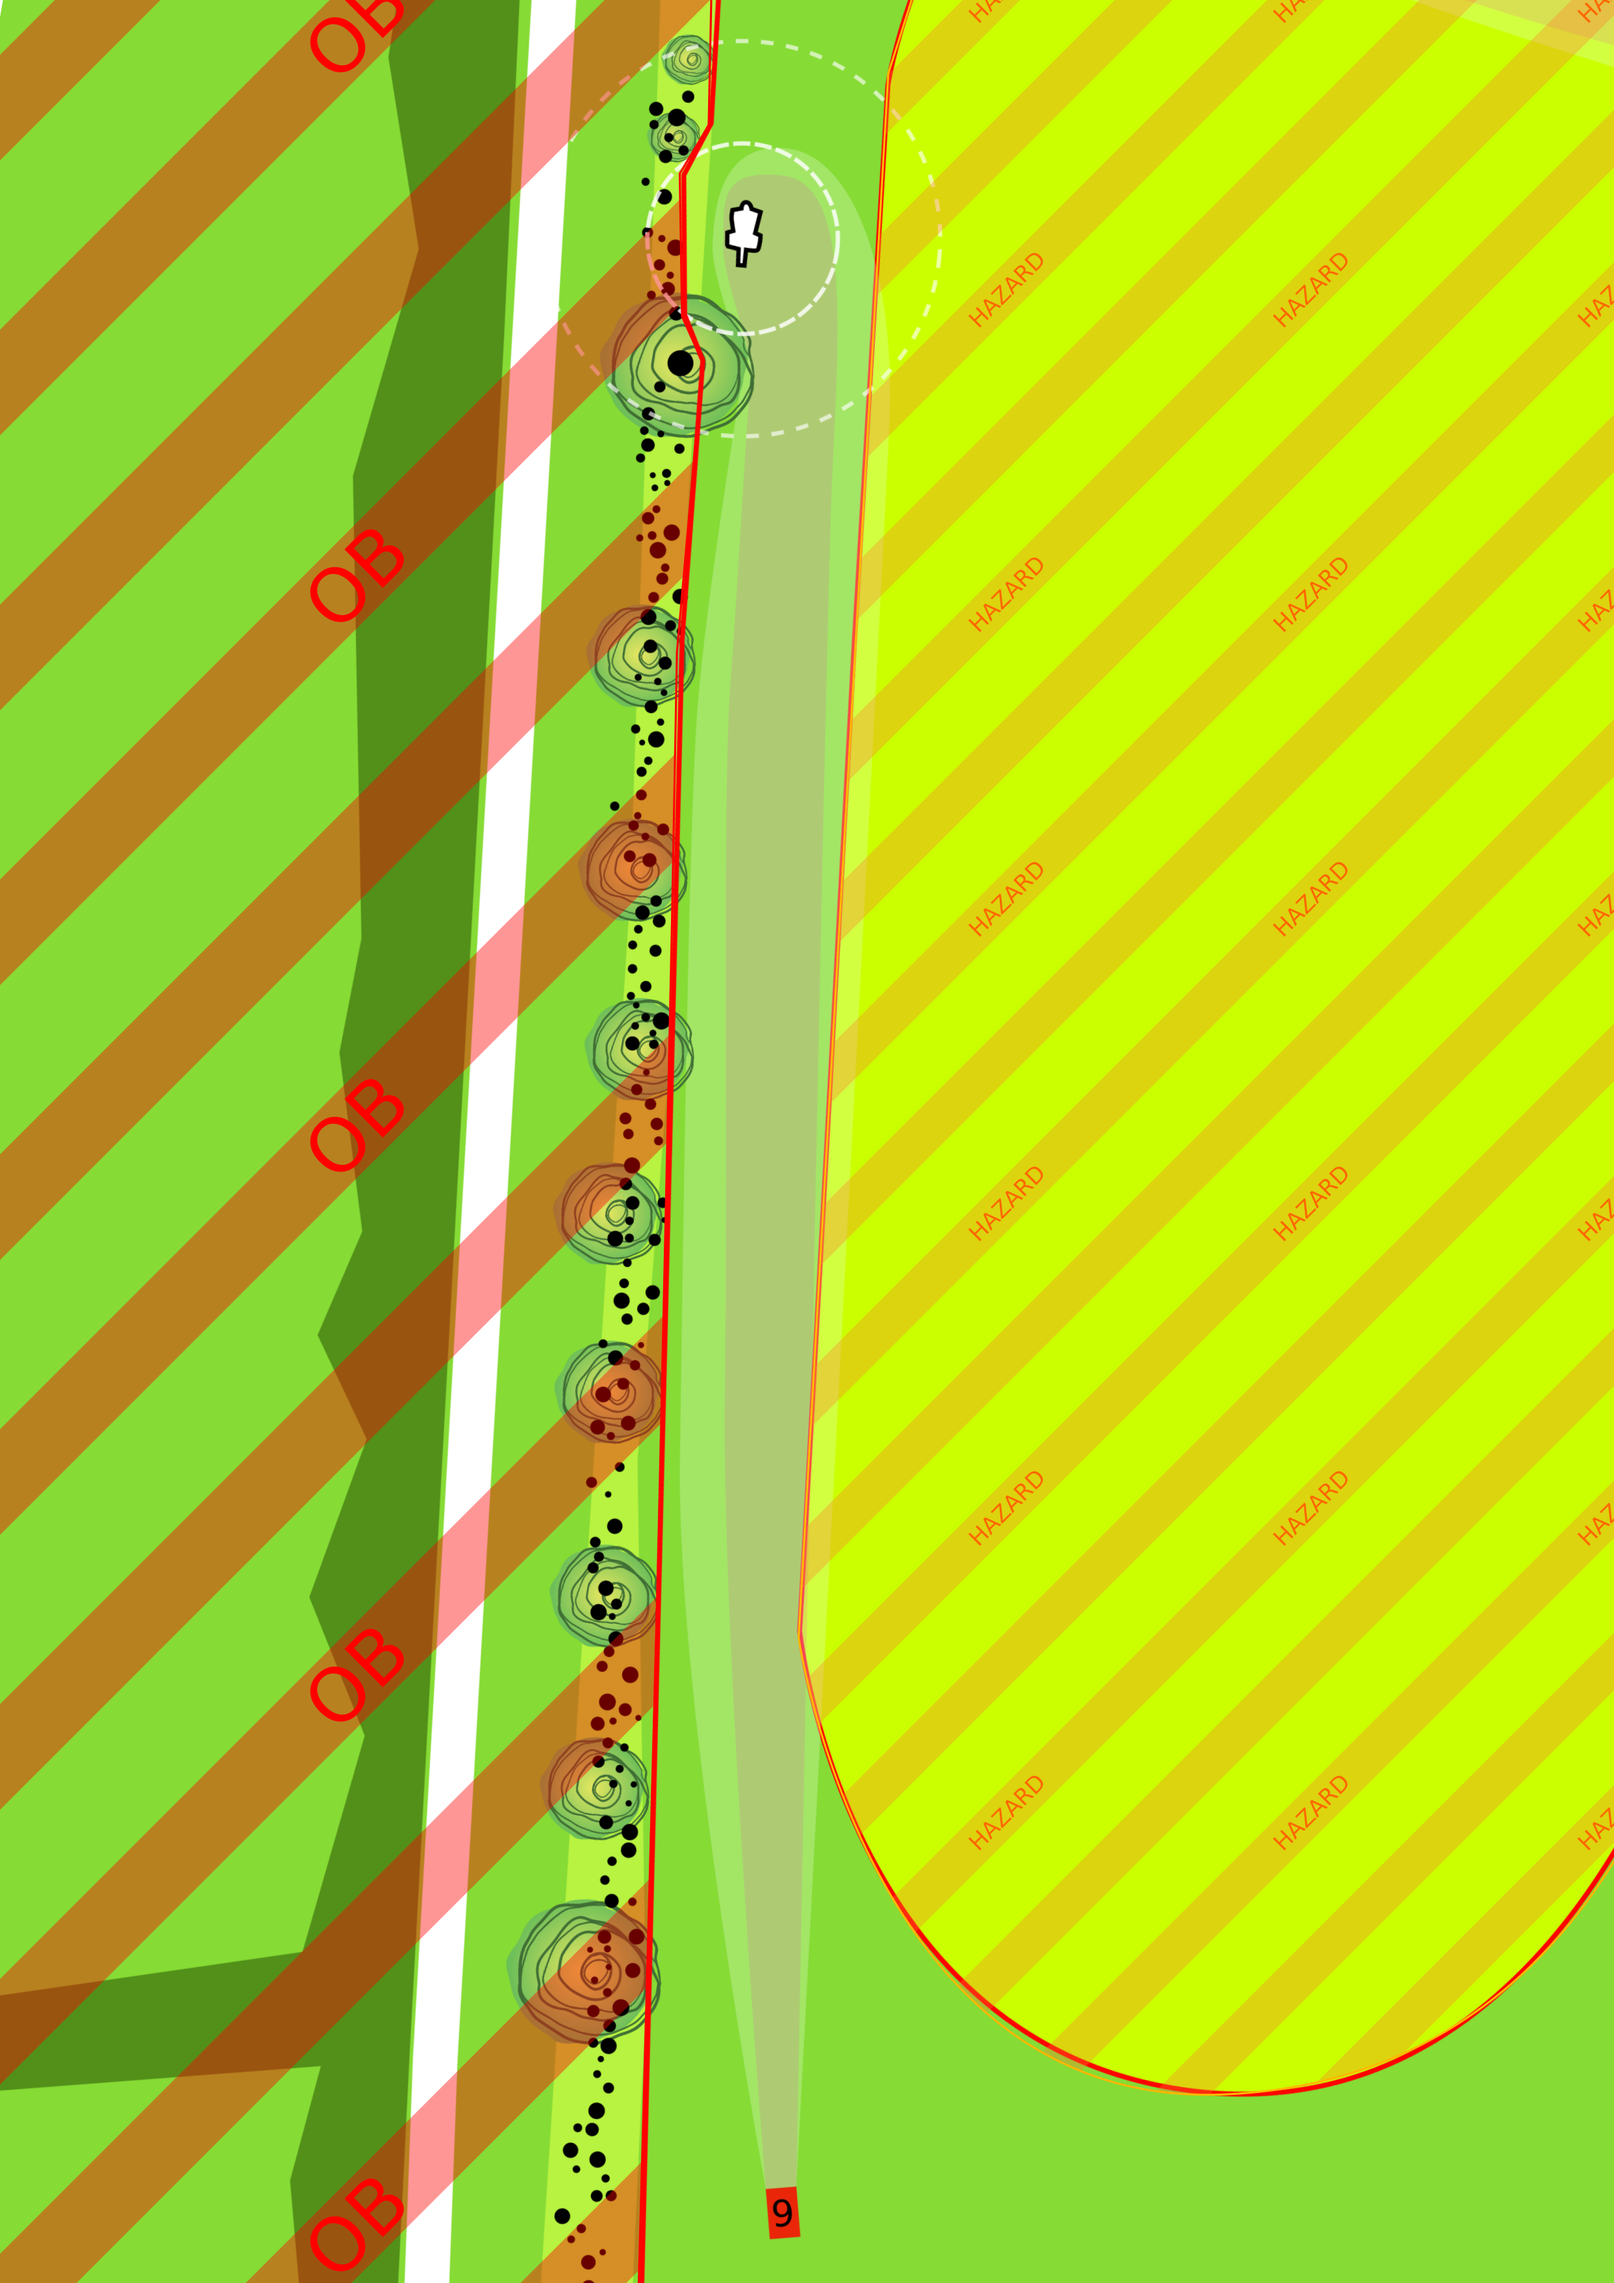
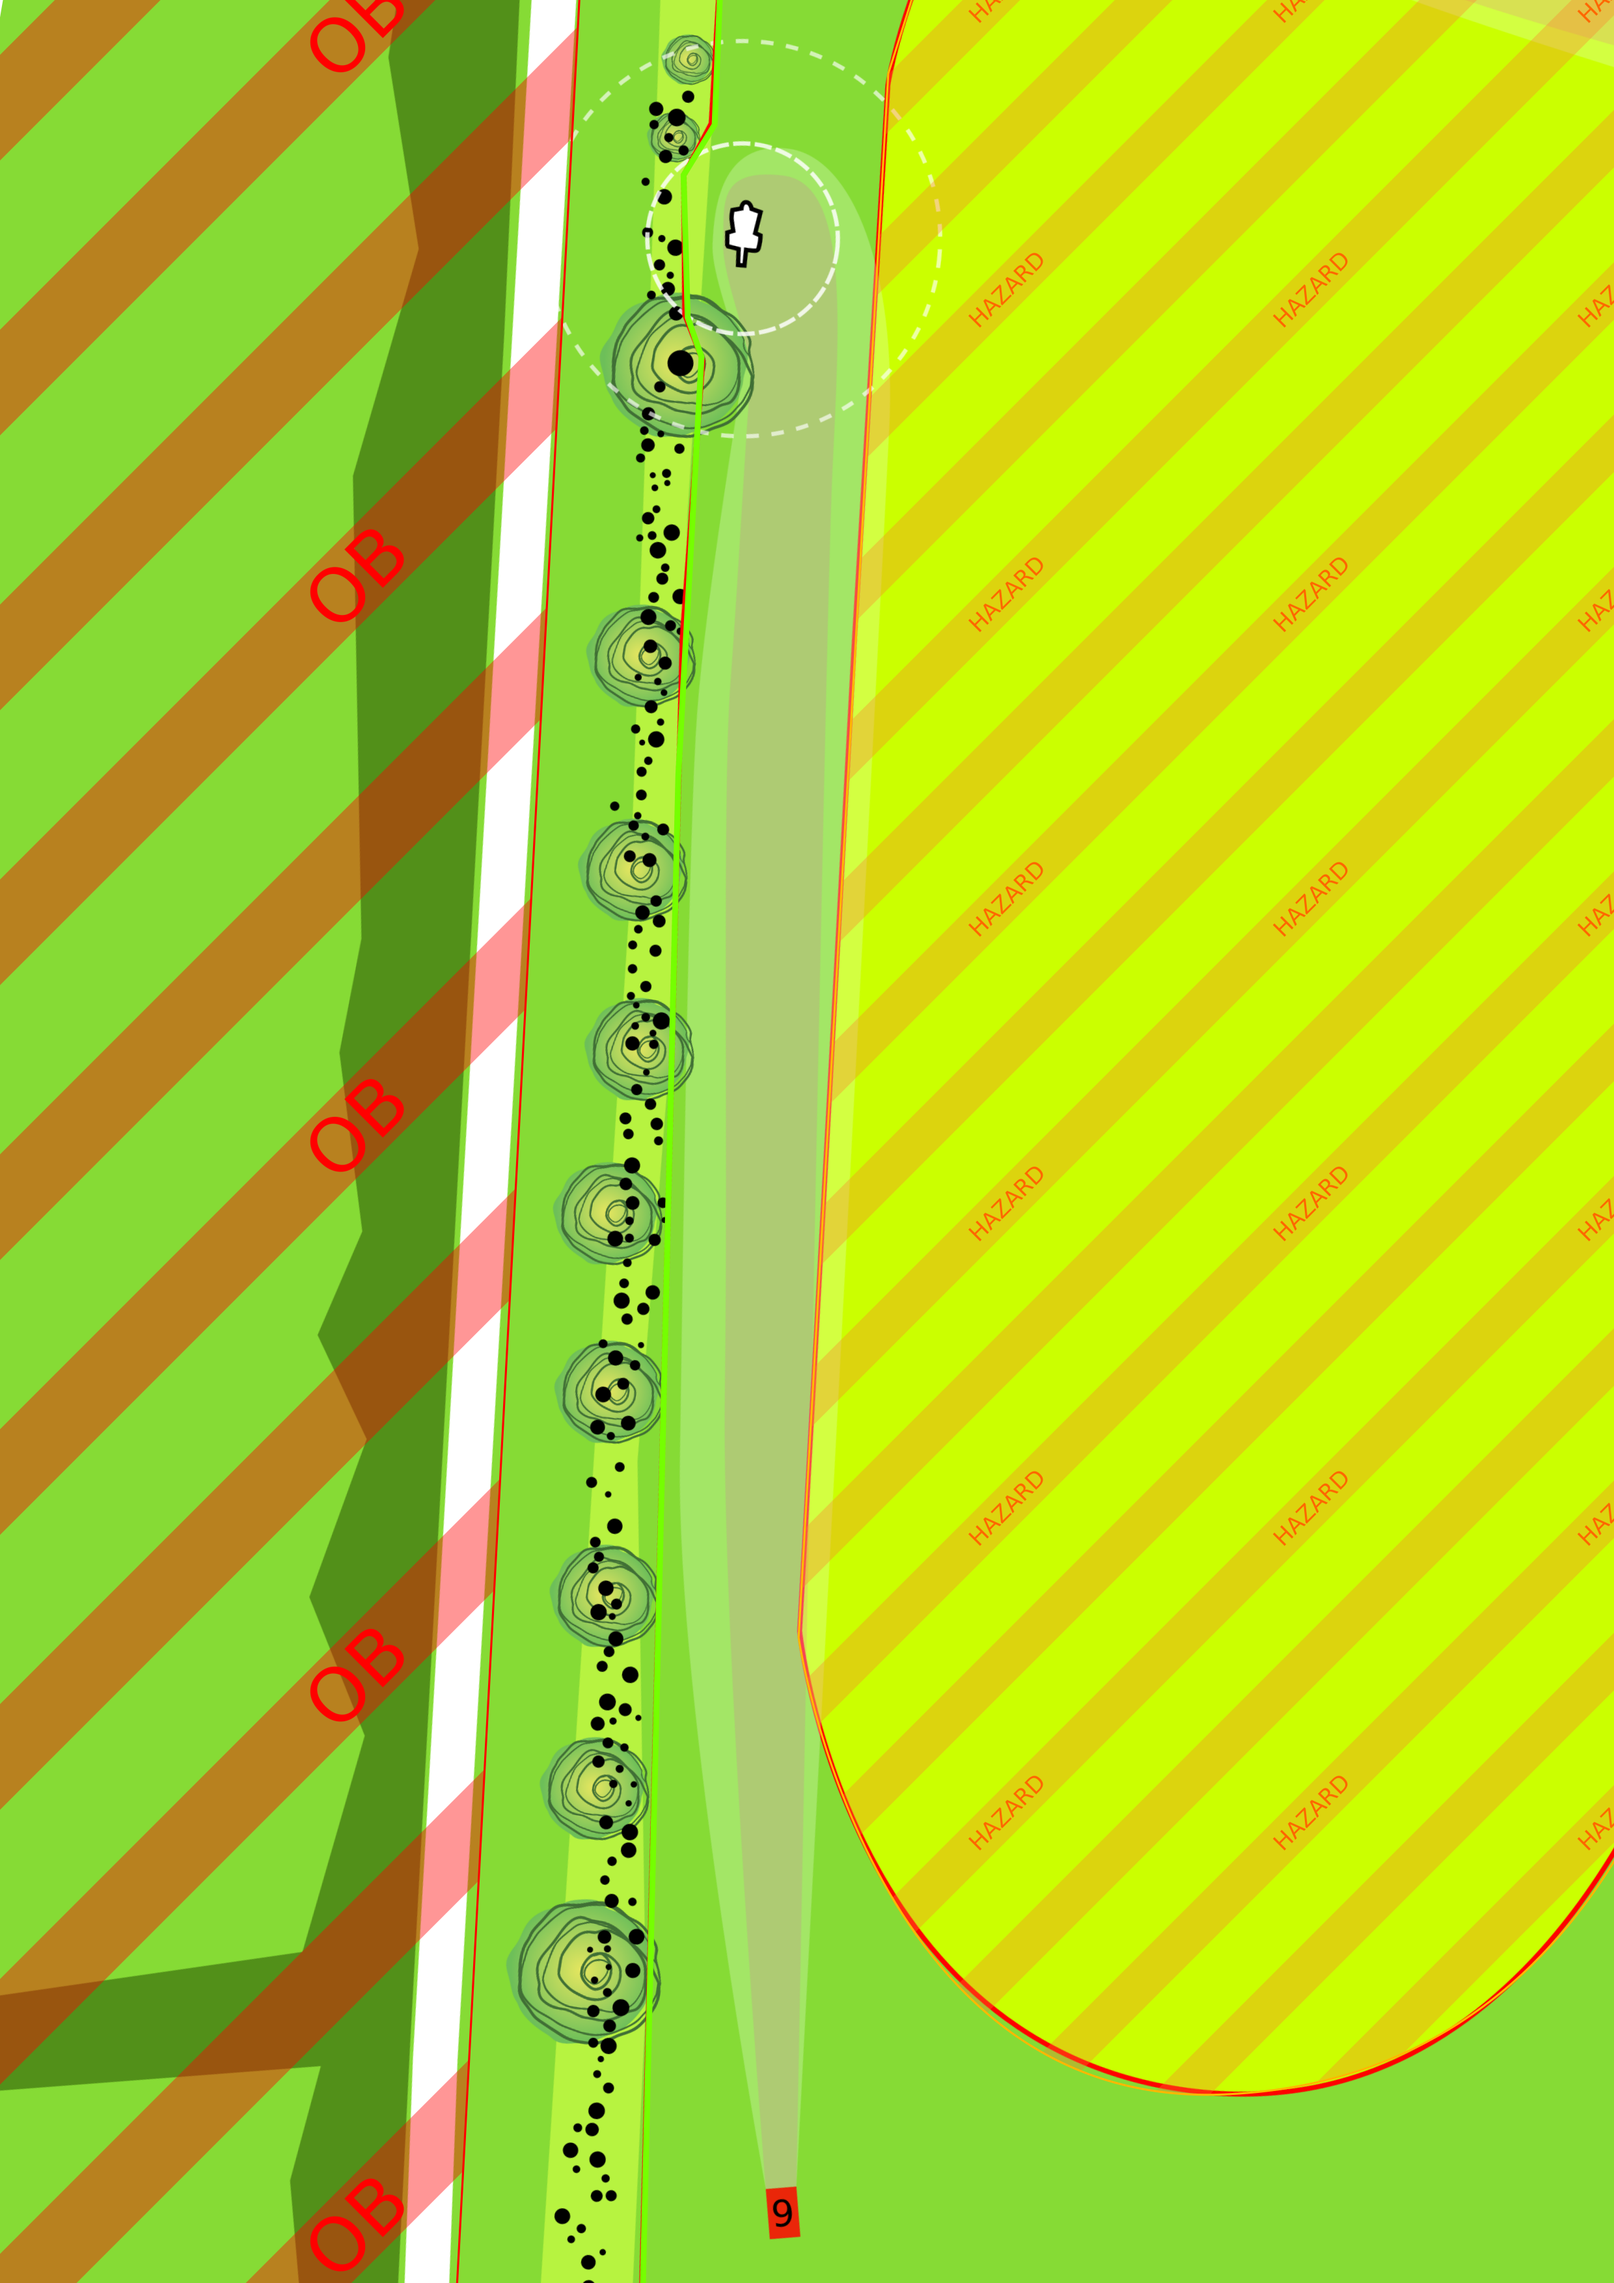
Anonce groupe et modification 9

diff --git a/content/news/20-10-16_les_groupes_et_dernières_infos.md b/content/news/20-10-16_les_groupes_et_dernières_infos.md
@@ -1,0 +1,28 @@
+---
+title: "Les groupes et dernières infos"
+date: 2020-10-16T19:35:07+02:00
+draft: true
+---
+
+Bonsoir,
+
+Merci à tous pour vos confirmations de venue, j'epère que la reco s'est bien passée pour ceux qui sont déja passés cet aprèm.
+
+## Les groupes pour la manche 1
+
+Voici les groupes pour la manche de samedi matin : https://discgolfmetrix.com/?u=groups_pdf&ID=1476141
+
+<!--more-->
+
+J'ai fait la répartition conseillée par la PDGA, (classement par rating puis alphabetique, réparti horizontalement sur les 9 groupes). Je suis un peu déçu par le groupe 13, pas de mélange, c'est très covid compatible...
+
+
+## Changement sur le parcours (trou 9)
+
+Petit changement sur le livret joueur pour [le trou 9](/parcours/9), finalement la ligne OB de gauche est définie par la route et pas par la ligne prévue à l'origine
+
+
+
+## Les trophées
+
+![prize](/prize.jpg)

diff --git a/content/parcours/9/index.md b/content/parcours/9/index.md
@@ -14,8 +14,12 @@ lastmod: 2020-10-16
 {{< imgproc "9.png" >}}
 
 - L’enclos à droite est une zone _HAZARD_.
-- Une ligne hors limite longe la haie de gauche (la haie et au delà est hors limite).
+- ~~Une ligne hors limite longe la haie de gauche (la haie et au delà est hors limite).~~
+- La ligne OB a gauche est materialisé par la route au delà de la haie
 
 MAJ: 16-10-2020
 
  - Pour des raison de sécurité, si vous être proche de la barière, vous pouvez vous écarter d'un mètre comme si c'était une ligne ob. a gauche ou a droite en fonction de si vous ête dans le fairway ou dans la zone HAZARD.
+
+ MAJ: 16-10-2020 soir
+ modification de la règle OB à gauche
